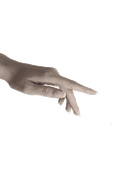
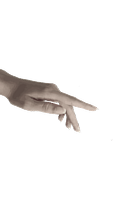
mainpage finished for both desktop and mainpage

Changed region(s): [[0.0, 0.2762, 0.7692, 0.6906]]

diff --git a/styles/index.css b/styles/index.css
@@ -323,6 +323,7 @@
     .soft-skills-card figcaption{
         width: 7.7vw;
     }
+
     .contact-me{
         position: relative;
         margin-top: 25vw; 
@@ -394,9 +395,7 @@
     .send-button{
         padding: 0.55vw 2.77vw;
         border-radius: 16px;
-        background-color: transparent;
-        border-style: solid;
-        border-color: #5F3413;
+        background-color: #150903;
     }
 
     .contact-logos{
@@ -622,13 +621,6 @@
         transform: scaleX(-1);
     }
     
-    .hand{
-        position: absolute;
-        top: 124.5vw;
-        width: 30.73vw;
-        left: 0vw;
-        right: auto;
-    }
 
     .center-content {
         display: flex;
@@ -656,9 +648,24 @@
         margin-top: -0.5vw;
     }
 
-    .skills-text{
-        margin-top: 9vw;
+    .skill-texts{
+        width: 100%;
+        position: relative;
+        margin-top: 15vw;
     }
+
+    .hand {
+        width: 29.54vw;
+        height: auto;
+        position: absolute;
+        left: 0;
+        top: -26vw;
+    }
+
+    .skill-texts h3{
+        margin-top:0.75vw;
+    }
+    
 
     .skills-section{
         max-width: 92.7vw;
@@ -699,79 +706,125 @@
         margin-top: -4.2vw;
     }
 
-    .left-column{
-        position: absolute;
-        left: 0;
-        bottom: 31.6vw;
-        box-sizing: border-box;
 
+    .core-competencies{
+        margin-top: 1.73vw;
+        display:flex;
+        flex-direction: column;
+        gap: 3.33vw;
+    }
+
+    .soft-skills{
+        display:flex;
+        flex-direction: row;
+        gap: 2.64vw;
+        justify-content: center;
+        align-items: center;
+        flex-wrap: wrap;
+    }
+    
+    .soft-skills-card{
+        display: flex;
+        flex-direction: column;
+        gap:1.6vw;
+        justify-content: center;
+        align-items: center;
+        background-color: #941B2D;
+        border-radius: 32px;
+        width: 29.54vw;
+        height: 44.54vw;
+    }
+
+    .soft-skills-card img {
+        width: 20vw;
+    }
+
+    .soft-skills-card figcaption{
+        width: 20vw;
+    }
+
+    .contact-me{
+        position: relative;
+        margin-top: 35vw; 
+        min-height: 145vw;
+        
+    }
+
+
+    .left-column, .right-column{
+        position: absolute;
+        bottom: 15vw;
+        width: auto;
+        height: 157.72vw;
+    }
+
+    .left-column{
+        left: 0;
     }
 
     .right-column{
-        position: absolute;
         right: 0;
-        bottom: 31.6vw;
-        box-sizing: border-box;
-
     }
-    html, body {
-    overflow-x: hidden;
-}
+
    .contact-texts {
         display: flex;
         flex-direction: column;
         align-items: center;
         justify-content: center;
-        position: relative;
-        text-align: center;
+        position: relative; 
         gap: 0vw;
-        margin-top:20vw;
-        width: 75.59vw;
+        width: 71.6vw;
         margin-left: auto;
         margin-right: auto;
     }
+    
 
     .contact-texts p {
         margin: 0; 
     }
 
+    .contact-texts h2{
+        text-align: center;
+    }
     .contact-form{
         display: flex;
         flex-direction: column;
         align-items: center;
         position: relative;
         text-align: center;
-        gap: 7.76vw;
+        gap: 7.27vw;
         margin-top: 2vw;
     }
 
     .contact-form-name-email{
-        width: 75.59vw;
+        width: 71.6vw;
         height: 10.91vw;
         border-radius: 16px;
         border: 1px solid #5F3413;
         background-color: transparent;
-        padding-left: 8.18vw;
+        padding-left: 2.5vw;
 
     }
 
     .contact-form-message{
-        width: 75.59vw;
-        height: 21.14vw;
+        width: 71.6vw;
+        height: 21.36vw;
         border-radius: 16px;
         background-color: transparent;
         border: 1px solid #5F3413;
-        padding-left: 8.18vw;
-        padding-top: 7vw;
+        padding-left: 2.5vw;
+        padding-top: 3vw;
         resize: none;
     }
 
-    .send-button{
-        padding: 2.5vw 8vw;
+    .send-button {
+        display:flex;
+        align-items: center;
+        justify-content: center;
+        background-color: #150903;
         border-radius: 16px;
-        background-color: transparent;
-        border-style: solid;
-        border-color: #5F3413;
+        width: 24.09vw;
+        height: 10.91vw;
     }
 
     .contact-logos{
@@ -780,6 +833,11 @@
         align-items: center;
         justify-content: center;
         text-align: center;
-        gap: 7.76vw;
+        gap: 7.27vw;
     }
+    .contact-logos img{
+        width: 10.9vw;
+    }
+
+    
 }

diff --git a/index.html b/index.html
@@ -343,7 +343,7 @@
                     <input class="para browndrapes contact-form-name-email" type="text" name="name" placeholder="Name" required />
                     <input class="para browndrapes contact-form-name-email" type="email" name="email" placeholder="Email" required />
                     <textarea class="para browndrapes contact-form-message" name="message" placeholder="Message" required></textarea>
-                    <button class="ctas browndrapes send-button" type="submit">Send</button>
+                    <button class="ctas stonebeige send-button" type="submit">Send</button>
                     <div id="form-message" class="form-message"></div>
 
                 </form>

diff --git a/styles/style.css b/styles/style.css
@@ -223,7 +223,7 @@ html {
     footer{
         position: absolute;
         text-align: center;
-        bottom: 15vw;
+        bottom: 0;
         width: 100%;
     }
 
